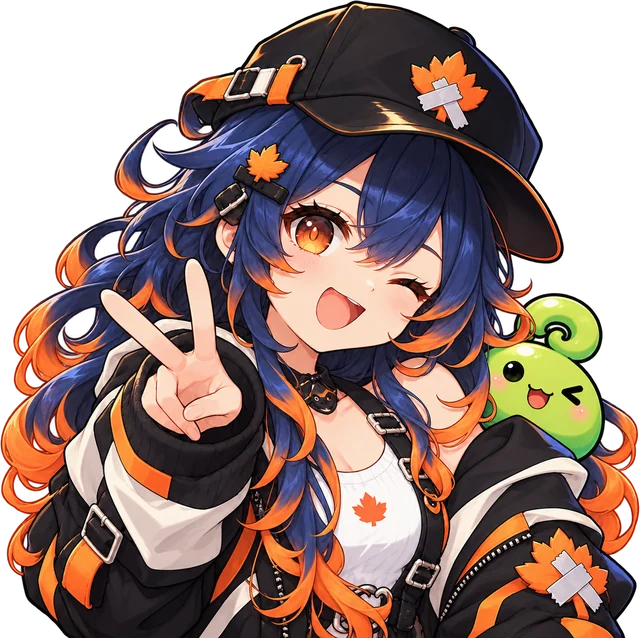
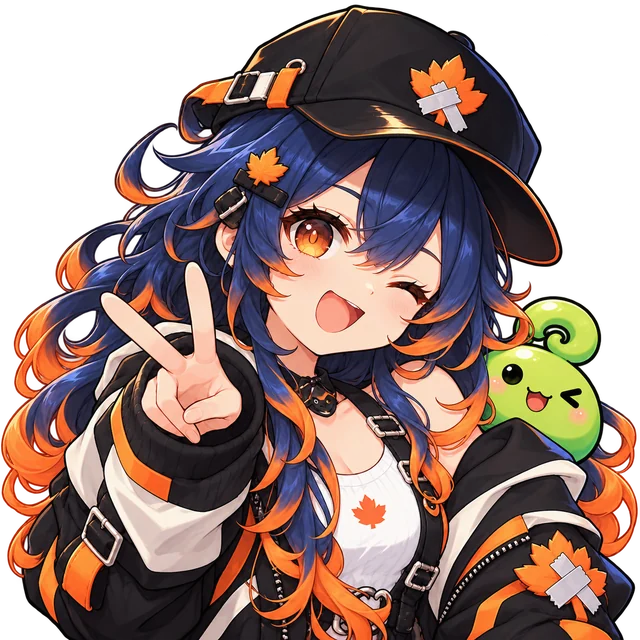
Site: home hero takes turns between the Slums-chan pictures
The owner wants the cut-out mascot kept and the art circulated. The hero now cycles
the cut-out (new full-size version from the owner, 640/960 px), the smug 'Bustin'
chat since 2009!' scene and the winking one, a soft fade every 7 seconds, paused
while the tab is hidden. With reduced motion it picks one per visit; without
JavaScript only the cut-out shows. The 'What it's like' panel goes back to text.

Claude-Session: https://claude.ai/code/session_01BbGu8wy5tur3enirbnGDUQ

diff --git a/docs/site/assets/site.css b/docs/site/assets/site.css
@@ -126,9 +126,16 @@ main { padding-block: 8px 48px; }
 .hero .lede { margin: 22px 0 26px; }
 .actions { display: flex; flex-wrap: wrap; gap: 14px; }
 .hero-art { display: grid; justify-items: center; }
-.hero-scene { margin: 0 0 -34px; width: 94%; position: relative; z-index: 0; line-height: 0; transform: rotate(1.5deg);
-  border: var(--border) solid var(--edge); border-radius: var(--radius); overflow: hidden; box-shadow: 5px 5px 0 var(--drop); }
-.hero-scene img, .guide-scene img { width: 100%; height: auto; display: block; }
+/* the hero art takes turns (theme.js); without JavaScript only the cut-out mascot shows */
+.hero-rotor { display: grid; align-items: end; justify-items: center; width: min(360px, 90%); margin-bottom: -46px;
+  position: relative; z-index: 0; }
+.hero-rotor > img { grid-area: 1 / 1; opacity: 0; visibility: hidden; transition: opacity .9s, visibility .9s; }
+.hero-rotor > .is-on { opacity: 1; visibility: visible; }
+.mascot { width: min(320px, 100%); height: auto; filter: drop-shadow(4px 4px 0 var(--drop)); }
+.hero-scene { width: 100%; height: auto; margin-bottom: 20px; transform: rotate(1.5deg); border: var(--border) solid var(--edge);
+  border-radius: var(--radius); box-shadow: 5px 5px 0 var(--drop); }
+@media (prefers-reduced-motion: reduce) { .hero-rotor > img { transition: none; } }
+.guide-scene img { width: 100%; height: auto; display: block; }
 .guide-scene { margin: 0 0 22px; max-width: 520px; line-height: 0; border: var(--border) solid var(--edge); border-radius: var(--radius);
   overflow: hidden; box-shadow: 4px 4px 0 var(--drop); }
 .hero-art .patch-card { position: relative; z-index: 1; width: 100%; }
@@ -288,7 +295,6 @@ table.t { width: 100%; border-collapse: collapse; }
 @media (max-width: 900px) {
   .hero, .split { grid-template-columns: minmax(0, 1fr); }
   .patch-card { transform: none; }
-  .hero-scene { transform: none; }
   .tiles { grid-template-columns: minmax(0, 1fr); }
   .notes { grid-template-columns: minmax(0, 1fr); }
   .notes > .toc { grid-row: auto; position: static; display: flex; flex-wrap: wrap; }
@@ -312,7 +318,9 @@ table.t { width: 100%; border-collapse: collapse; }
   .site-head .wrap { gap: 10px 8px; }
   .brand { font-size: 1.15rem; gap: 6px; }
   .brand img { height: 40px; }
-  .hero-scene { width: 100%; margin-bottom: -22px; transform: none; }
+  .hero-rotor { width: min(300px, 100%); margin-bottom: -30px; }
+  .mascot { width: 220px; }
+  .hero-scene { transform: none; }
   .accents { margin-left: auto; gap: 4px; }
   .accents button { width: 18px; height: 18px; }
   .theme button { padding: 4px 7px; font-size: .72rem; }

diff --git a/docs/site/home.html b/docs/site/home.html
@@ -12,10 +12,13 @@
     </div>
   </div>
   <div class="hero-art">
-  <figure class="hero-scene"><img src="assets/brand/chat-smug-960.webp"
-    srcset="assets/brand/chat-smug-560.webp 560w, assets/brand/chat-smug-960.webp 960w, assets/brand/chat-smug-1448.webp 1448w"
-    sizes="(max-width: 900px) 100vw, 440px" alt="Slums-chan lounging in Henesys with a smug grin and a peace sign, beside a sign that says &ldquo;Bustin&rsquo; chat since 2009!&rdquo;"
-    width="1448" height="1086" fetchpriority="high"></figure>
+  <div class="hero-rotor" data-rotor>
+    <img class="mascot is-on" src="assets/brand/mascot.webp" srcset="assets/brand/mascot.webp 640w, assets/brand/mascot-960.webp 960w" sizes="320px" alt="" width="640" height="640">
+    <img class="hero-scene" src="assets/brand/chat-smug-960.webp" srcset="assets/brand/chat-smug-560.webp 560w, assets/brand/chat-smug-960.webp 960w"
+      sizes="360px" alt="Slums-chan lounging in Henesys with a smug grin and a peace sign, beside a sign that says &ldquo;Bustin&rsquo; chat since 2009!&rdquo;" width="1448" height="1086" loading="lazy" aria-hidden="true">
+    <img class="hero-scene" src="assets/brand/chat-2009-720.webp" srcset="assets/brand/chat-2009-720.webp 720w, assets/brand/chat-2009.webp 1200w"
+      sizes="360px" alt="Slums-chan winks and throws a peace sign in Henesys, beside a sign that says &ldquo;Bustin&rsquo; chat since 2009!&rdquo;" width="1200" height="800" loading="lazy" aria-hidden="true">
+  </div>
   <a class="card patch-card" href="{{latest_url}}">
     <span class="pill">Latest patch</span>
     <span class="patch-ver">{{latest_version}}</span>

diff --git a/docs/site/assets/theme.js b/docs/site/assets/theme.js
@@ -29,3 +29,23 @@
   wire(document.querySelector("[data-theme-switch]"), "data-theme", "slums-theme", ["light", "dark"], "system");
   wire(document.querySelector("[data-accent-switch]"), "data-accent", "slums-accent", ["blue", "orange"], "green");
 })();
+
+/* Hero art takes turns: a new picture every 7 seconds, paused while the tab is hidden. With reduced motion asked for,
+   one picture is picked per visit and stays. */
+(function () {
+  var box = document.querySelector("[data-rotor]");
+  if (!box) return;
+  var pics = Array.prototype.slice.call(box.children), at = 0;
+  function show(i) {
+    pics[at].classList.remove("is-on");
+    pics[at].setAttribute("aria-hidden", "true");
+    at = i % pics.length;
+    pics[at].classList.add("is-on");
+    pics[at].removeAttribute("aria-hidden");
+  }
+  if (window.matchMedia && window.matchMedia("(prefers-reduced-motion: reduce)").matches) {
+    show(Math.floor(Math.random() * pics.length));
+    return;
+  }
+  setInterval(function () { if (!document.hidden) show(at + 1); }, 7000);
+})();
